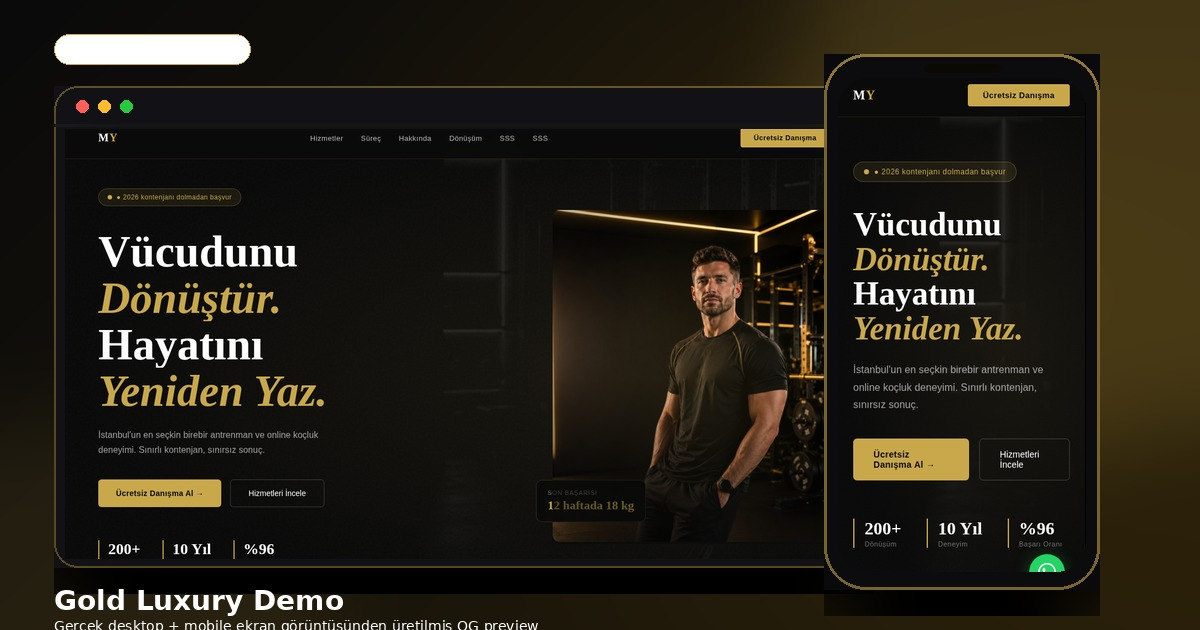
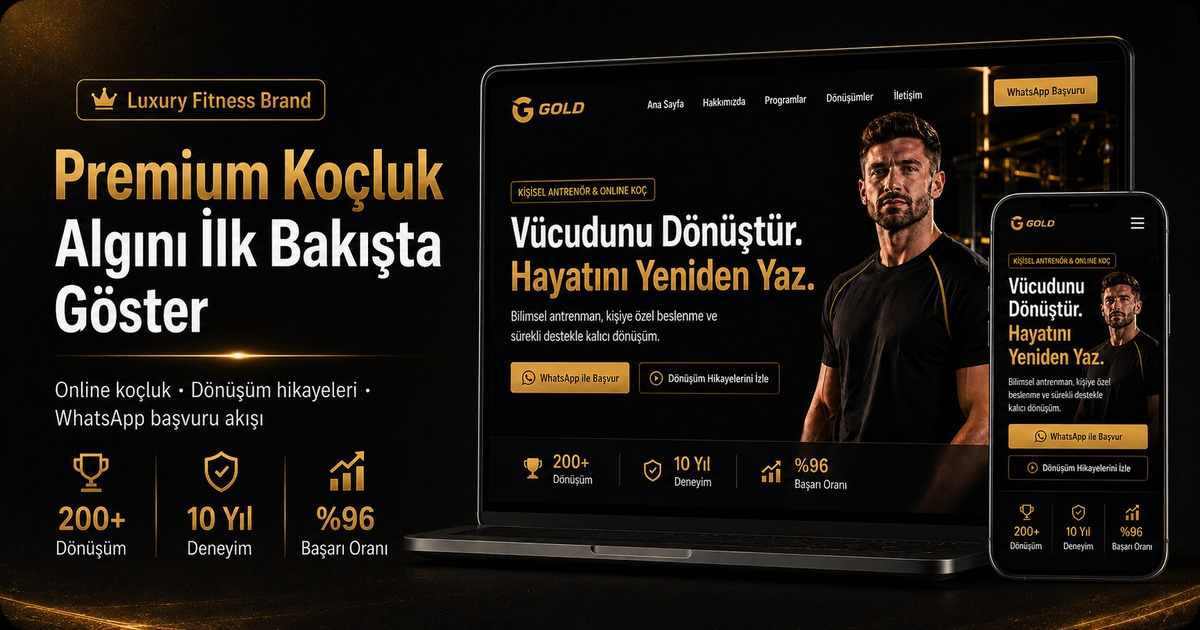
Update Gold OG preview

diff --git a/gold/index.html b/gold/index.html
@@ -3,8 +3,8 @@
 <head>
 <meta charset="UTF-8">
 <meta name="viewport" content="width=device-width, initial-scale=1.0">
-<title>Gold Luxury | Premium Personal Trainer Website Demo</title>
-<meta name="description" content="Lüks algı, güçlü ilk izlenim ve premium kişisel marka görünümü için hazırlanmış canlı personal trainer web site demosu.">
+<title>Gold Demo | Luxury Fitness Coach İçin Premium Dijital Vitrin</title>
+<meta name="description" content="Online fitness koçları için programları, dönüşüm hikayelerini ve WhatsApp başvuru akışını premium gösteren Gold demo.">
 <link rel="preconnect" href="https://fonts.googleapis.com">
 <link rel="preconnect" href="https://fonts.gstatic.com" crossorigin>
 <link href="https://fonts.googleapis.com/css2?family=Playfair+Display:ital,wght@0,400;0,700;0,900;1,400&family=DM+Sans:wght@300;400;500;600&display=swap" rel="stylesheet">
@@ -344,17 +344,17 @@ footer{background:#050505;padding:40px 60px;border-top:1px solid var(--border)}
 
 <link rel="canonical" href="https://www.fatihtopcu.online/gold/">
 <meta property="og:type" content="website">
-<meta property="og:title" content="Gold Luxury | Premium Personal Trainer Website Demo">
-<meta property="og:description" content="Lüks algı, güçlü ilk izlenim ve premium kişisel marka görünümü için hazırlanmış canlı personal trainer web site demosu.">
+<meta property="og:title" content="Luxury Fitness Coach İçin Premium Dijital Vitrin">
+<meta property="og:description" content="Online fitness koçları için programları, dönüşüm hikayelerini ve WhatsApp başvuru akışını premium gösteren Gold demo.">
 <meta property="og:url" content="https://www.fatihtopcu.online/gold/">
 <meta property="og:image" content="https://www.fatihtopcu.online/og/gold-og.jpg">
 <meta property="og:image:secure_url" content="https://www.fatihtopcu.online/og/gold-og.jpg">
 <meta property="og:image:width" content="1200">
 <meta property="og:image:height" content="630">
-<meta property="og:image:alt" content="Gold Luxury | Premium Personal Trainer Website Demo preview">
+<meta property="og:image:alt" content="Gold temalı premium fitness coach dijital vitrin önizleme görseli">
 <meta name="twitter:card" content="summary_large_image">
-<meta name="twitter:title" content="Gold Luxury | Premium Personal Trainer Website Demo">
-<meta name="twitter:description" content="Lüks algı, güçlü ilk izlenim ve premium kişisel marka görünümü için hazırlanmış canlı personal trainer web site demosu.">
+<meta name="twitter:title" content="Luxury Fitness Coach İçin Premium Dijital Vitrin">
+<meta name="twitter:description" content="Online fitness koçları için programları, dönüşüm hikayelerini ve WhatsApp başvuru akışını premium gösteren Gold demo.">
 <meta name="twitter:image" content="https://www.fatihtopcu.online/og/gold-og.jpg">
 
 <!-- OG Capture Mode: deterministic screenshot state for social preview generation -->